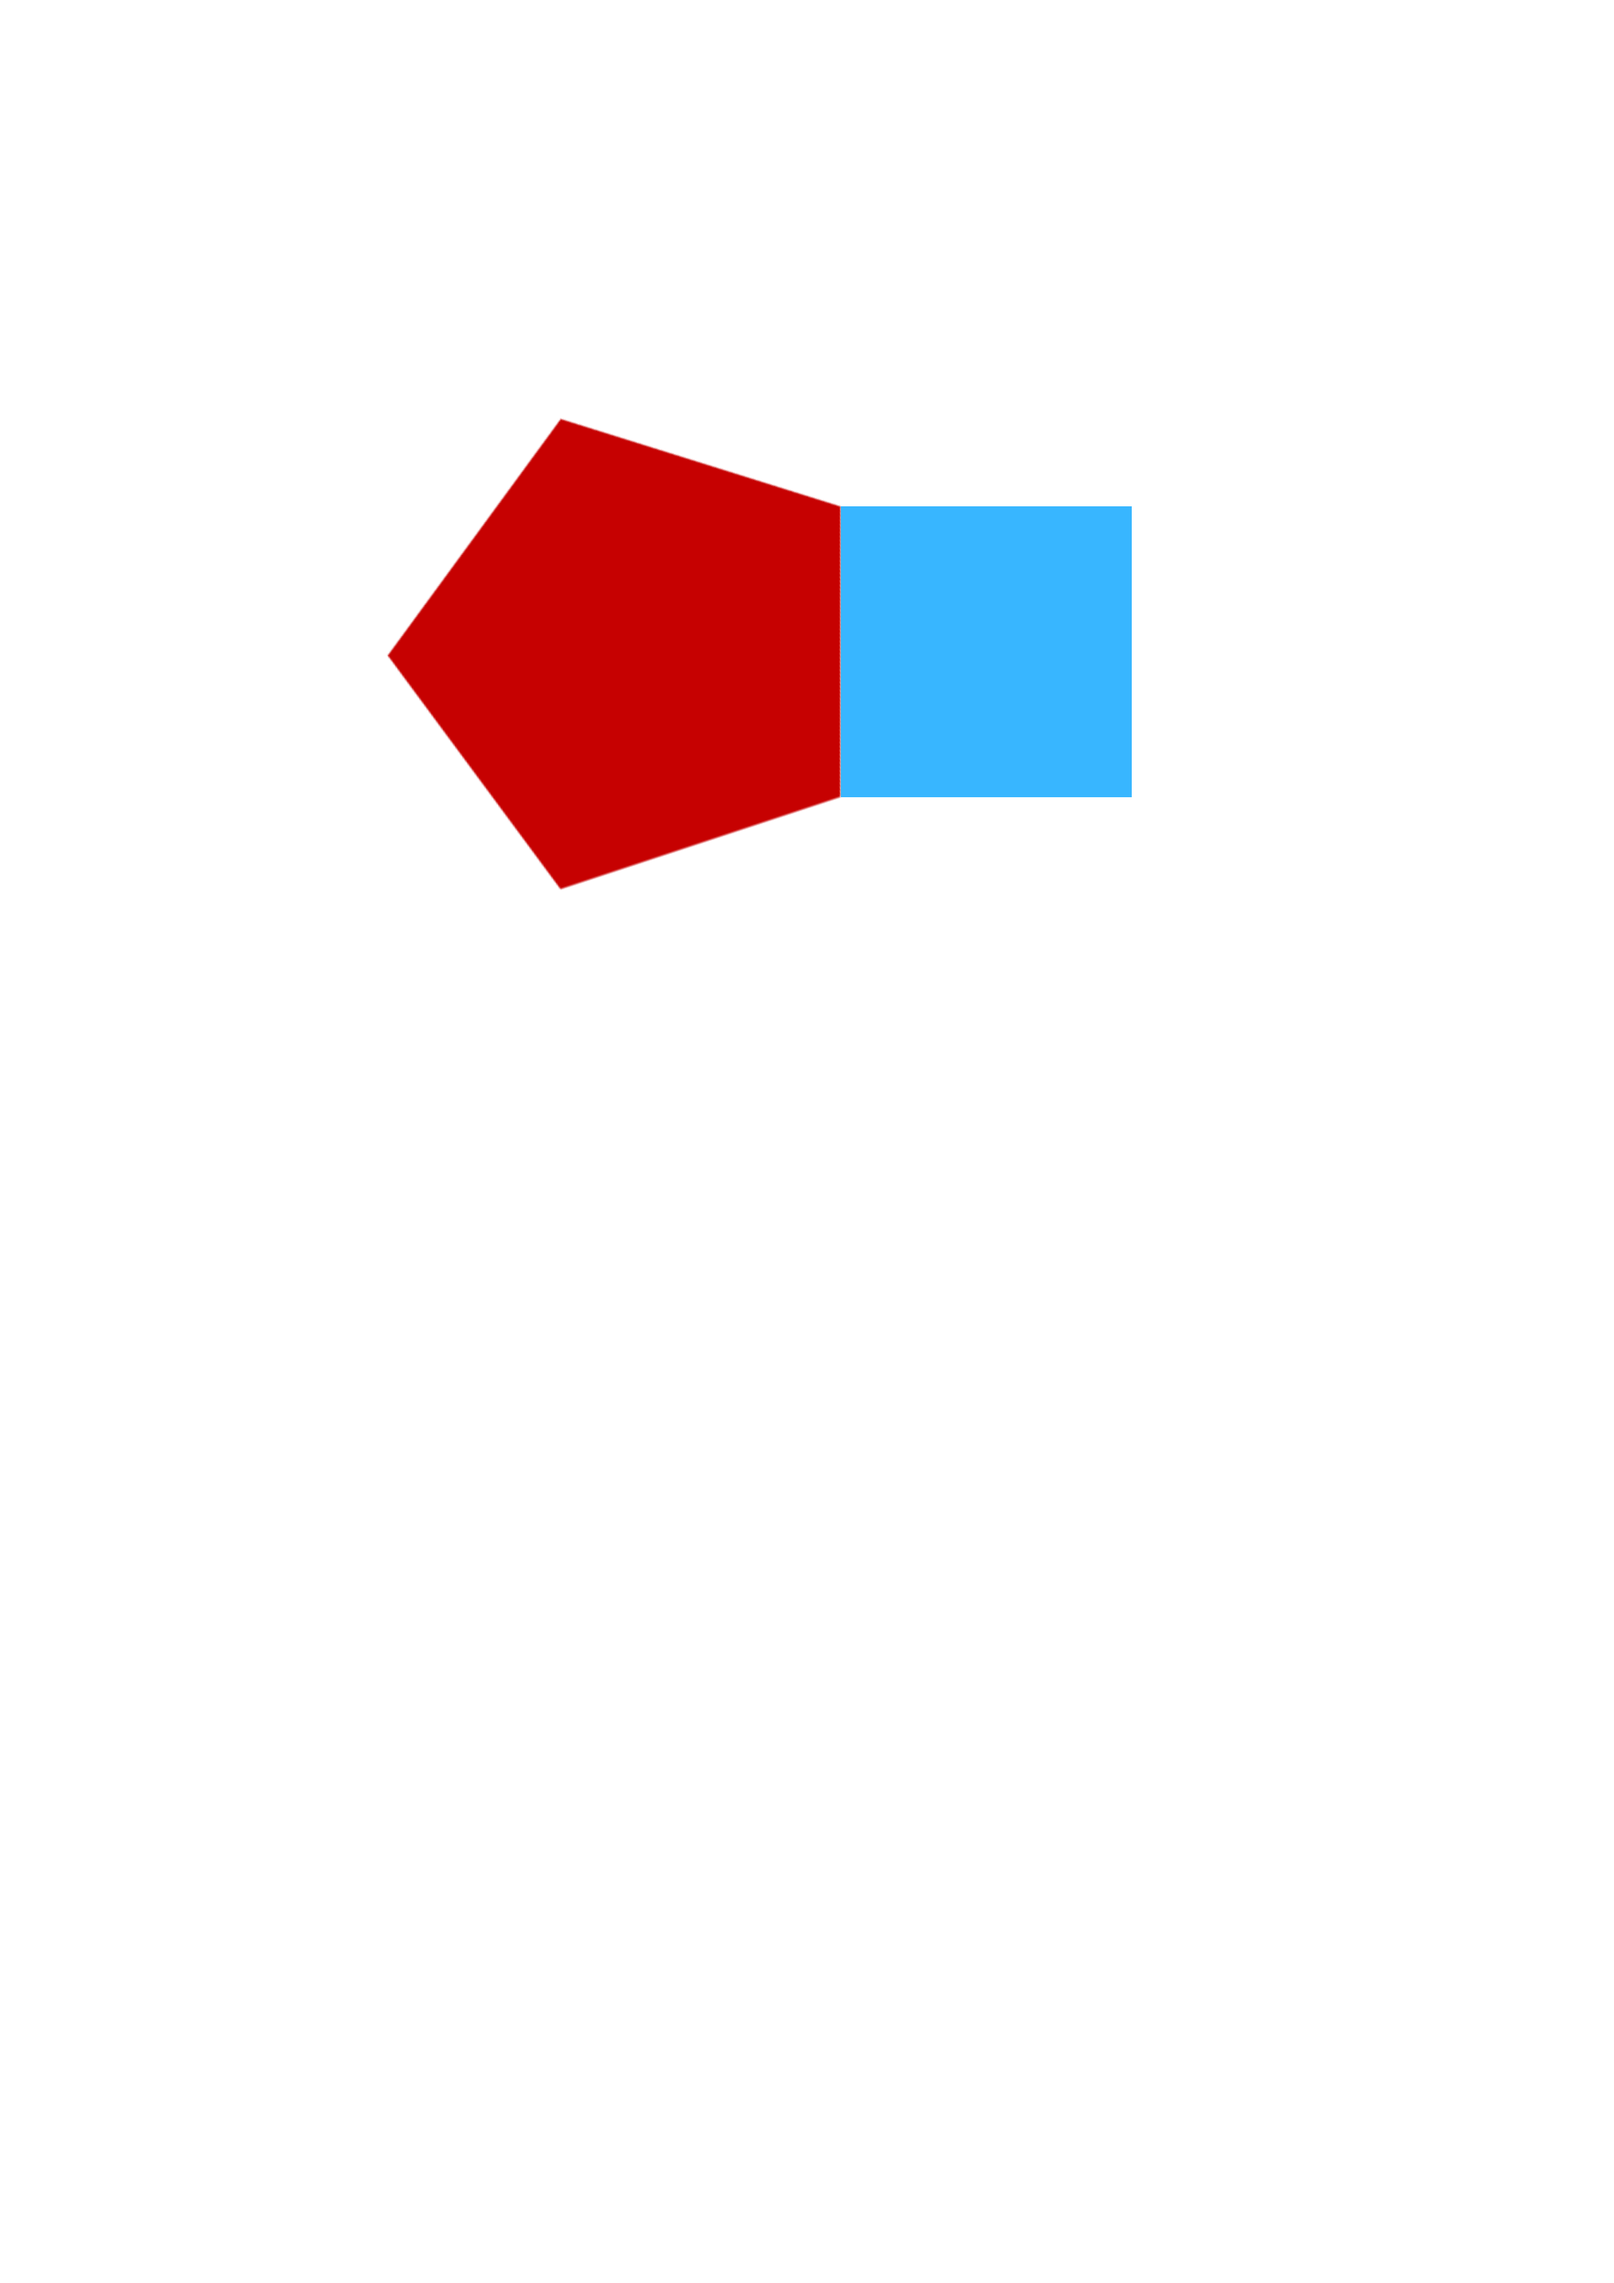
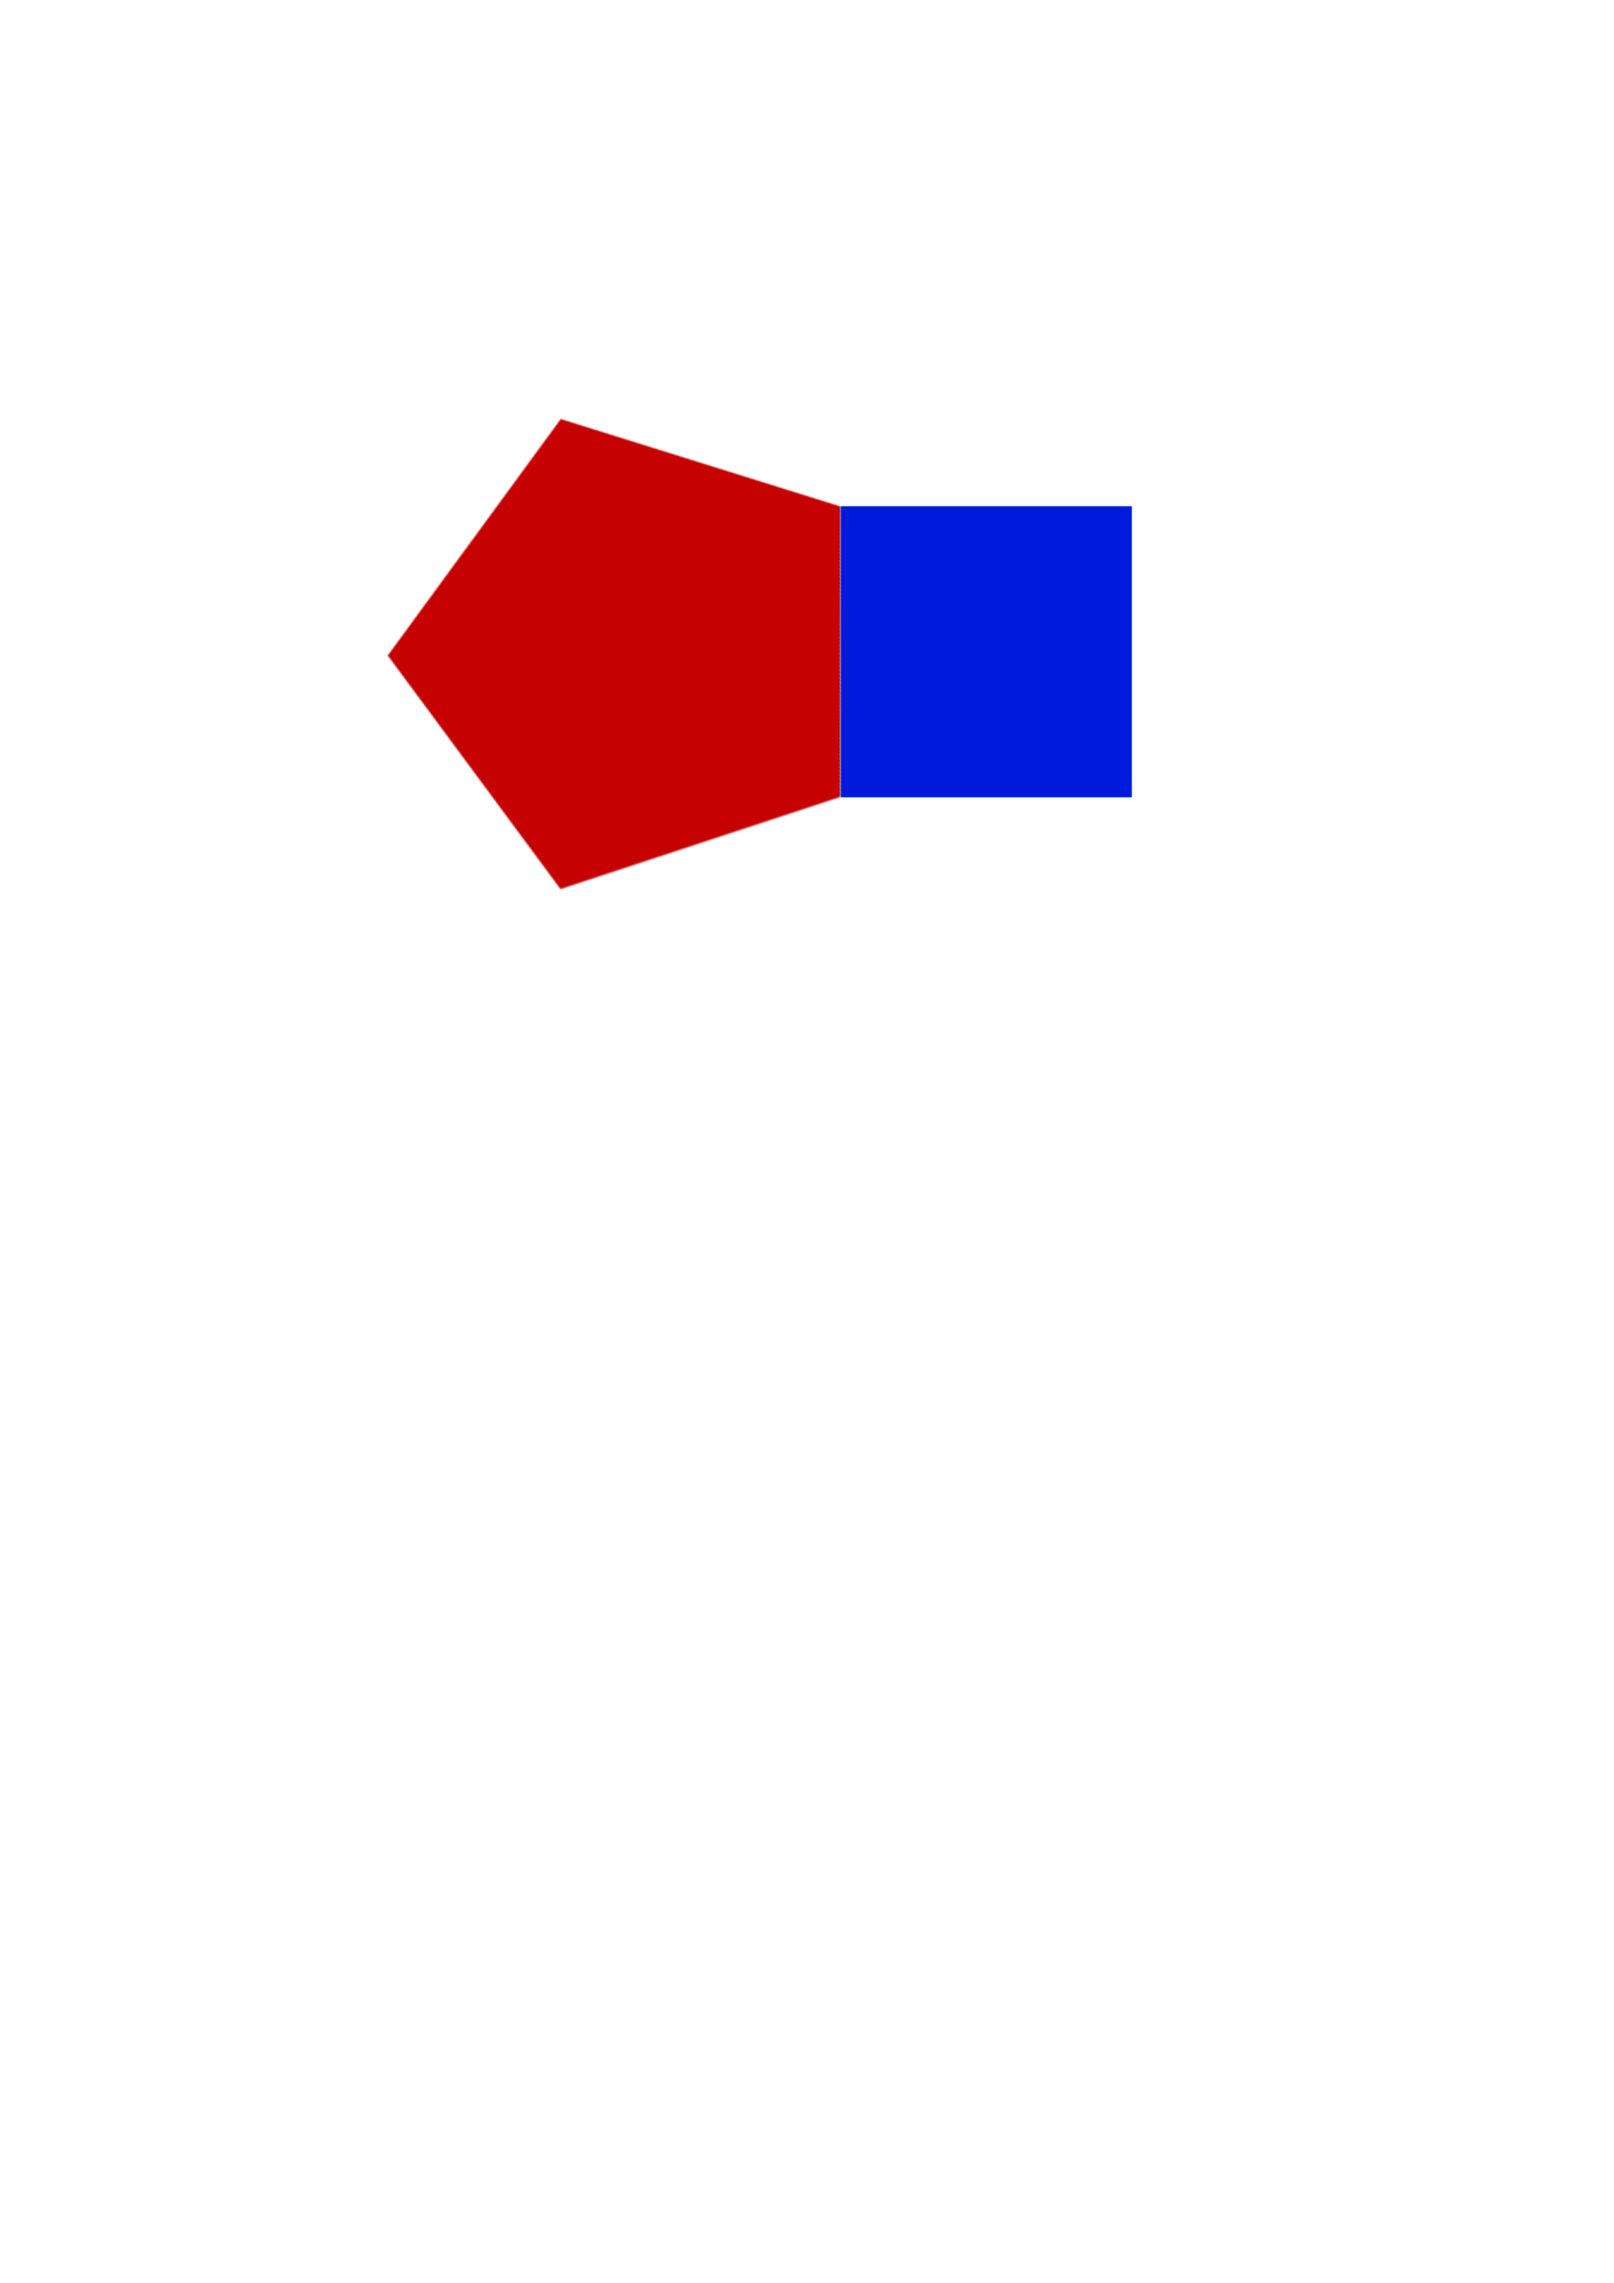
tamamlandı

Changed region(s): [[0.4968, 0.2175, 0.7141, 0.3729]]

diff --git a/detect.py b/detect.py
@@ -72,7 +72,6 @@ def main():
                 cv.putText(img, shape.translate(tr), (x0, y0 + 5),  cv.FONT_HERSHEY_SIMPLEX, 1, (0, 0, 0), 2)
                 cv.putText(img, color.translate(tr), (x0, y0 + 30), cv.FONT_HERSHEY_SIMPLEX, 1, (0, 0, 0), 2)
 
-        #bu kısıma çalış
         gecerli = [f for f in data["features"] if f["shape"] != "Tanımsız"]
         data["total_shapes"] = len(gecerli)
         data["unclassified"] = len(data["features"]) - len(gecerli)
